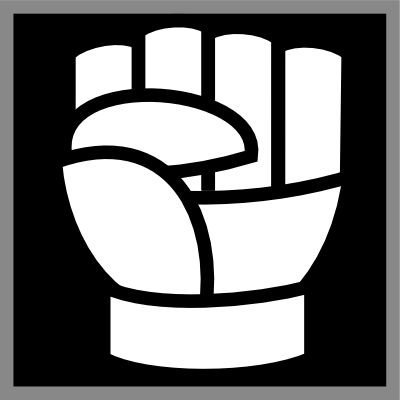
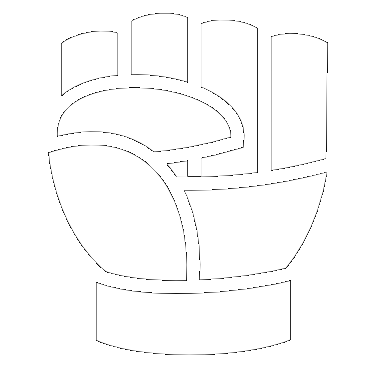
progress

diff --git a/projects/mtg-index/src/styles.css b/projects/mtg-index/src/styles.css
@@ -464,10 +464,18 @@ div.single-box {
     color: #3f3f3f;
 }
 
-.chip-icon {
+.wincon-icon {
     height: 12px;
     width: 12px;
     border-radius: 50%;
     margin-right: 2px;
     vertical-align: middle;
 }
+
+.wincon-beatdown { background-color: #E53935; color: #fff; }
+.wincon-spellslinger { background-color: #FB8C00; color: #fff; }
+.wincon-lifedrain { background-color: #6A1B9A; color: #fff; }
+.wincon-toxic { background-color: #2E7D32; color: #fff; }
+.wincon-mill { background-color: #1565C0; color: #fff; }
+.wincon-support { background-color: #00838F; color: #fff; }
+.wincon-wincon { background-color: #424242; color: #fff; }

diff --git a/projects/mtg-index/src/script.js b/projects/mtg-index/src/script.js
@@ -191,8 +191,8 @@ function getTagsHtml(item) {
     return `<div class="chips-container">${htmlSet(item.setname)}${htmlCardType(item.kartentypen)}${htmlCreatureType(item.kreaturentypen)}${htmlCategories(item.kategorien)}</div>`;
 }
 function getWinconHtml(siegesbedingung) {
-    return "<div><img src='" + getWinconImage(siegesbedingung) + "'/>" + siegesbedingung + "</div>";
+    return "<div class='wincon-" + siegesbedingung.toLowerCase() + "'><img class='wincon-icon' src='" + getWinconImage(siegesbedingung) + "'/>" + siegesbedingung + "</div>";
 }
 function getWinconImage(siegesbedingung) {
-    return `https://raw.githubusercontent.com/OmarJAH/magic-ma3/main/resources/images/assets/win-conditions/${siegesbedingung.toLowerCase()}.png`;
+    return `https://raw.githubusercontent.com/OmarJAH/magic-ma3/main/resources/images/assets/rpg-icons/${siegesbedingung.toLowerCase()}.png`;
 }

diff --git a/projects/mtg-index/src/script.ts b/projects/mtg-index/src/script.ts
@@ -242,9 +242,9 @@ function getTagsHtml(item: DeckData) {
 }
 
 function getWinconHtml(siegesbedingung: WinCondition) {
-   return "<div><img src='" + getWinconImage(siegesbedingung) + "'/>"+siegesbedingung+"</div>"
+   return "<div class='wincon-"+siegesbedingung.toLowerCase()+"'><img class='wincon-icon' src='" + getWinconImage(siegesbedingung) + "'/>"+siegesbedingung+"</div>"
 }
 
 function getWinconImage(siegesbedingung: WinCondition) {
-    return `https://raw.githubusercontent.com/OmarJAH/magic-ma3/main/resources/images/assets/win-conditions/${siegesbedingung.toLowerCase()}.png`
+    return `https://raw.githubusercontent.com/OmarJAH/magic-ma3/main/resources/images/assets/rpg-icons/${siegesbedingung.toLowerCase()}.png`
 }